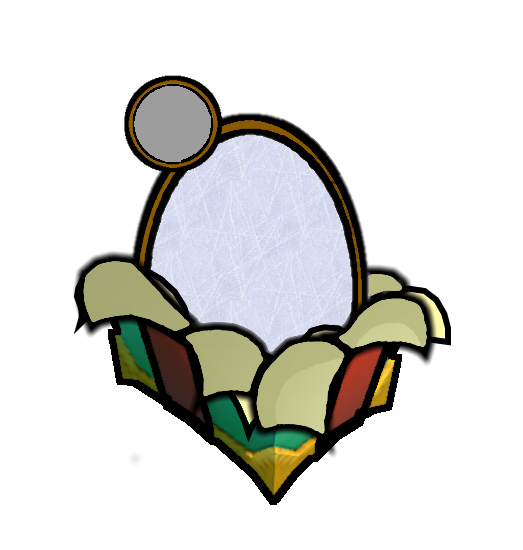
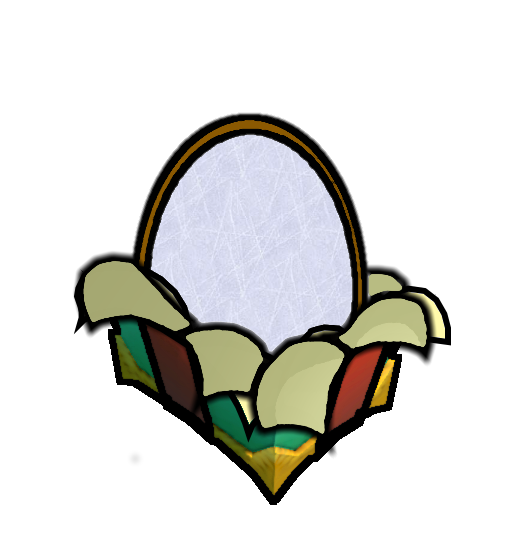
Changed hotkey frame to be independant from presentopen

diff --git a/content/dota_addons/fest_decor/panorama/scripts/custom_game/custom_shop.js b/content/dota_addons/fest_decor/panorama/scripts/custom_game/custom_shop.js
@@ -655,6 +655,7 @@ function SwapAbility(data)
 			$( "#leap" ).style.opacity=0;
 			if(data.ability_name == "Rocket_Boots")
 			{
+				
 				lastability = "skate";
 				hasability = true;
 				$("#presentopen").style.opacity=1;
@@ -664,6 +665,7 @@ function SwapAbility(data)
 			}
 			if(data.ability_name == "Magnet")
 			{
+				
 				lastability = "magnet";
 				hasability = true;
 				$("#presentopen").style.opacity=1;
@@ -674,6 +676,7 @@ function SwapAbility(data)
 			}
 			if(data.ability_name == "Snow_Ball")
 			{
+				
 				lastability = "snowball";
 				hasability = true;
 				$("#presentopen").style.opacity=1;
@@ -683,11 +686,13 @@ function SwapAbility(data)
 			}
 			if(data.ability_name == "leap")
 			{
+				
 				lastability = "leap";
 				hasability = true;
 				$("#presentopen").style.opacity=1;
 				//$.Msg("snow fade if")
 				LeapIn()
+				
 
 			}
 			
@@ -697,12 +702,14 @@ function SwapAbility(data)
 				hasability = false;
 				UseAbility()
 				$("#Hotkey").text = "";
+				//$("#hotkeyframe").style.visibility="collapse";
 			}
 			else
 			{
 				if( Game.GetGameTime()>1)
 				{
 					$("#Hotkey").text = Abilities.GetKeybind(Entities.GetAbility( Game.GetPlayerInfo(Players.GetLocalPlayer() ).player_selected_hero_entity_index, 0))
+					$("#hotkeyframe").style.visibility="collapse";
 				}
 				
 			}
@@ -715,6 +722,7 @@ function SkateIn()
 	//$("#presentopen").style.opacity=$("#presentopen").style.opacity-.1+.2;
 	if($("#rocketskate").style.opacity<1 && hasability == true && lastability == "skate")
 	{
+		$("#hotkeyframe").style.visibility="visible";
 		$("#rocketskate").style.opacity=$("#rocketskate").style.opacity-.1+.2;
 		$.Schedule( .1, SkateIn );	
 		
@@ -727,7 +735,8 @@ function MagnetIn()
 	//$("#presentopen").style.opacity=$("#presentopen").style.opacity-.1+.2;
 	if($("#magnet").style.opacity<1 && hasability == true && lastability == "magnet")
 	{
-		$("#magnet").style.opacity=$("#magnet").style.opacity-.1+.2;
+	$("#hotkeyframe").style.visibility="visible";	
+	$("#magnet").style.opacity=$("#magnet").style.opacity-.1+.2;
 		$.Schedule( .1, MagnetIn );	
 		
 	}
@@ -739,6 +748,7 @@ function SnowIn()
 	//$("#presentopen").style.opacity=$("#presentopen").style.opacity-.1+.2;
 	if($("#snowball").style.opacity<1 && hasability == true && lastability == "snowball")
 	{
+		$("#hotkeyframe").style.visibility="visible";
 		$("#snowball").style.opacity=$("#snowball").style.opacity-.1+.2;
 		$.Schedule( .1, SnowIn );	
 		
@@ -752,6 +762,7 @@ function LeapIn()
 	//$("#presentopen").style.opacity=$("#presentopen").style.opacity-.1+.2;
 	if($("#leap").style.opacity<1 && hasability == true && lastability == "leap")
 	{
+		$("#hotkeyframe").style.visibility="visible";
 		$("#leap").style.opacity=$("#leap").style.opacity-.1+.2;
 		$.Schedule( .1, LeapIn );	
 		
@@ -833,6 +844,7 @@ function UseAbility()
 			pulsecounter =1;
 			lastability = "none";
 			$( "#presentclosed" ).style.opacity=1;
+			$("#hotkeyframe").style.visibility="collapse";
 			$("#rocketskate").style.opacity=0;
 			$("#presentopen").style.opacity=0;
 			UseAbility()
@@ -907,6 +919,7 @@ function UseAbility()
 			pulsecounter =1;
 			lastability = "none";
 			$( "#presentclosed" ).style.opacity=1;
+			$("#hotkeyframe").style.visibility="collapse";
 			$("#snowball").style.opacity=0;
 			$("#presentopen").style.opacity=0;
 			UseAbility()
@@ -983,6 +996,7 @@ function UseAbility()
 			pulsecounter =1;
 			lastability = "none";
 			$( "#presentclosed" ).style.opacity=1;
+			$("#hotkeyframe").style.visibility="collapse";
 			$("#leap").style.opacity=0;
 			$("#presentopen").style.opacity=0;
 			UseAbility()
@@ -1059,6 +1073,7 @@ function UseAbility()
 			pulsecounter =1;
 			lastability = "none";
 			$( "#presentclosed" ).style.opacity=1;
+			$("#hotkeyframe").style.visibility="collapse";
 			$("#magnet").style.opacity=0;
 			$("#presentopen").style.opacity=0;
 			UseAbility()
@@ -1072,7 +1087,7 @@ function UseAbility()
 			$( "#magnet" ).style.opacity=0;
 			$( "#snowball" ).style.opacity=0;		
 			$( "#leap" ).style.opacity=0;	
-			
+			$("#hotkeyframe").style.visibility="collapse";
 			$( "#presentclosed" ).style.opacity=1;
 			hasability = false;
 			pulsecounter = 1;

diff --git a/content/dota_addons/fest_decor/panorama/styles/custom_game/custom_shop.css b/content/dota_addons/fest_decor/panorama/styles/custom_game/custom_shop.css
@@ -48,24 +48,31 @@
 #HotkeyHolder
 {
 	z-index: 7;
-	height:46%;
-	width: 46%;
+	height:30%;
+	width: 30%;
+	transform: translate3d(20%,20%,0%);
 	
 }
-
+#hotkeyframe
+{
+	z-index: 6;
+	height:100%;
+	width: 100%;
+		vertical-align: center;
+	horizontal-align: center;
+	visibility: collapse;
+}
 #Hotkey
 {
 	text-align: right;
-	vertical-align: bottom;
-	horizontal-align: right;
-	height: 100px;
-	width: 100px;
-	color: #ff8888;
+	vertical-align: center;
+	horizontal-align: center;
+	color: #ffffff;
 	text-shadow: 2px 2px 2px #ff0000;
-	font-size: 60px;
+	font-size: 50px;
 	font-family: monospace;
 	font-weight: bold;
-	text-align: center;
+	text-align: left;
 	opacity: 1;
 
 	z-index: 7;
